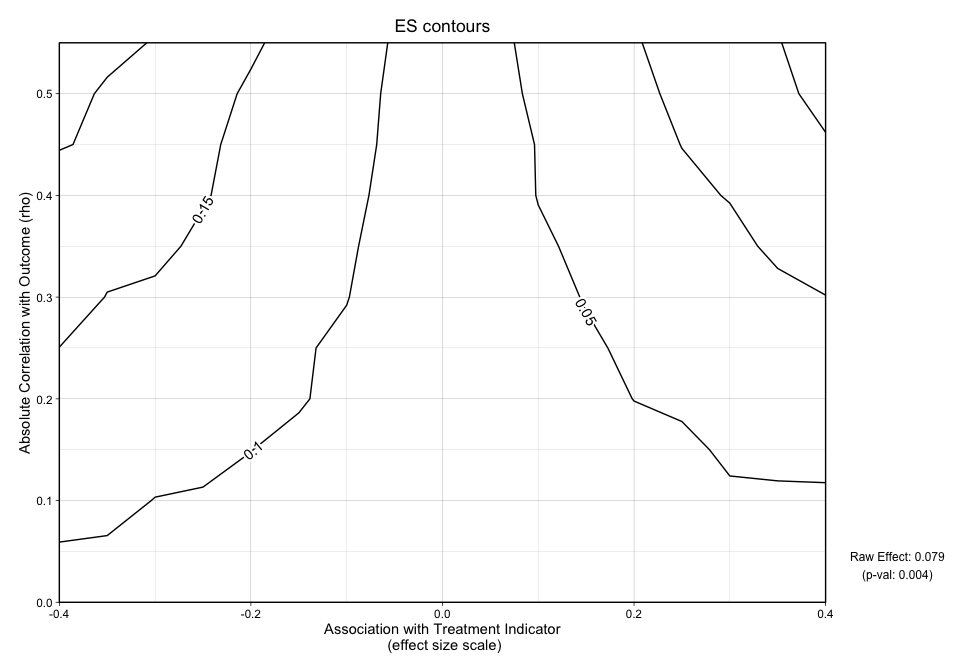
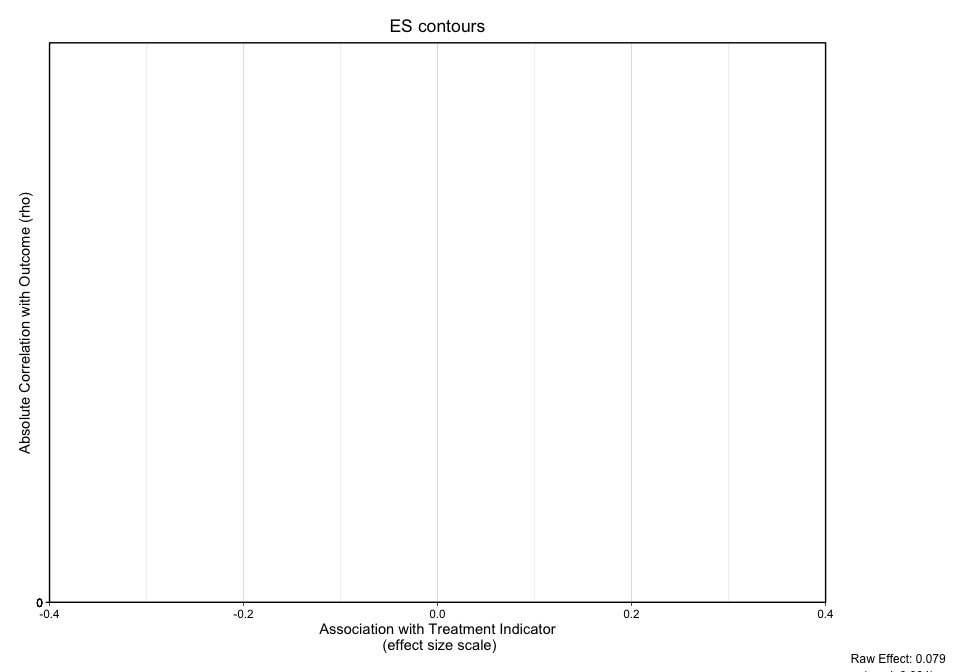
adhere to cran checks

diff --git a/README.md b/README.md
@@ -5,7 +5,7 @@
 # Introduction
 
 *Note: This is a work in progress.. This document was lasted upated
-2020-07-28 15:39:58*
+2020-07-28 16:06:26*
 
 The <ins>O</ins>mitted <ins>V</ins>ariable <ins>T</ins>ool (`OVtool`)
 package was designed to assess the sensitivity of research findings to
@@ -75,6 +75,21 @@ you restart your R session after running:*
 ``` r
 # install.packages("devtools")
 devtools::install_github("jpane24/OVtool") 
+```
+
+    #> 
+    #>      checking for file ‘/private/var/folders/ks/ll8v5y8x6rz_cgvtgk6zln90b6fd3c/T/Rtmp2MVftF/remotes635d4c651ac/jpane24-OVtool-50373c1/DESCRIPTION’ ...  ✓  checking for file ‘/private/var/folders/ks/ll8v5y8x6rz_cgvtgk6zln90b6fd3c/T/Rtmp2MVftF/remotes635d4c651ac/jpane24-OVtool-50373c1/DESCRIPTION’
+    #>   ─  preparing ‘OVtool’:
+    #>      checking DESCRIPTION meta-information ...  ✓  checking DESCRIPTION meta-information
+    #>   ─  checking for LF line-endings in source and make files and shell scripts
+    #>   ─  checking for empty or unneeded directories
+    #>   ─  building ‘OVtool_1.0.0.tar.gz’
+    #>      Warning: invalid uid value replaced by that for user 'nobody'
+    #>    Warning: invalid gid value replaced by that for user 'nobody'
+    #>      
+    #> 
+
+``` r
 # we recommend restarting your R session after running the previous line of code for the first time on your machine. 
 library(OVtool)
 ```
@@ -401,6 +416,12 @@ the effect is.
 plot.ov(ovtool_results_twang, print_graphic = "2", col = "color")
 ```
 
+    #> Warning in max(.data$rho_grid): no non-missing arguments to max; returning -Inf
+    
+    #> Warning in max(.data$rho_grid): no non-missing arguments to max; returning -Inf
+    
+    #> Warning in max(.data$rho_grid): no non-missing arguments to max; returning -Inf
+
 <img src="inst/fig2-1.png" style="display: block; margin: auto;" />
 
     #> [1] "NOTE: Covariates with absolute correlation with outcome greater than 0.4: eps7p_0 (Actual:
@@ -437,6 +458,12 @@ interpretation of their
 ``` r
 plot.ov(ovtool_results_twang, print_graphic = "3", col = "color")
 ```
+
+    #> Warning in max(.data$rho_grid): no non-missing arguments to max; returning -Inf
+    
+    #> Warning in max(.data$rho_grid): no non-missing arguments to max; returning -Inf
+    
+    #> Warning in max(.data$rho_grid): no non-missing arguments to max; returning -Inf
 
 <img src="inst/fig3-1.png" style="display: block; margin: auto;" />
 
@@ -477,11 +504,11 @@ summary.ov(object = ovtool_results_twang, model_results = results)
     #> [1] "The sign of the estimated effect is expected to remain consistent when simulated unobserved
     confounders have the same strength of association with the treatment indicator and outcome that are
     seen in the observed confounders. In the most extreme observed case, the estimated effect size is
-    reduced by 84 percent."
+    reduced by 83 percent."
     #> [1] "Statistical significance at the 0.05 level is expected to be robust to unobserved
     confounders with strengths of associations with the treatment indicator and outcome that are seen
     in 5 of the 8 observed confounders. In the most extreme observed case, the p-value would be
-    expected to increase from 0.004 to 0.643. Significance at the 0.05 level would not be expected to
+    expected to increase from 0.004 to 0.641. Significance at the 0.05 level would not be expected to
     be preserved for unobserved confounders that have the same strength of association with the
     treatment indicator and outcome as eps7p_0, sati_0, tss_0."
 
